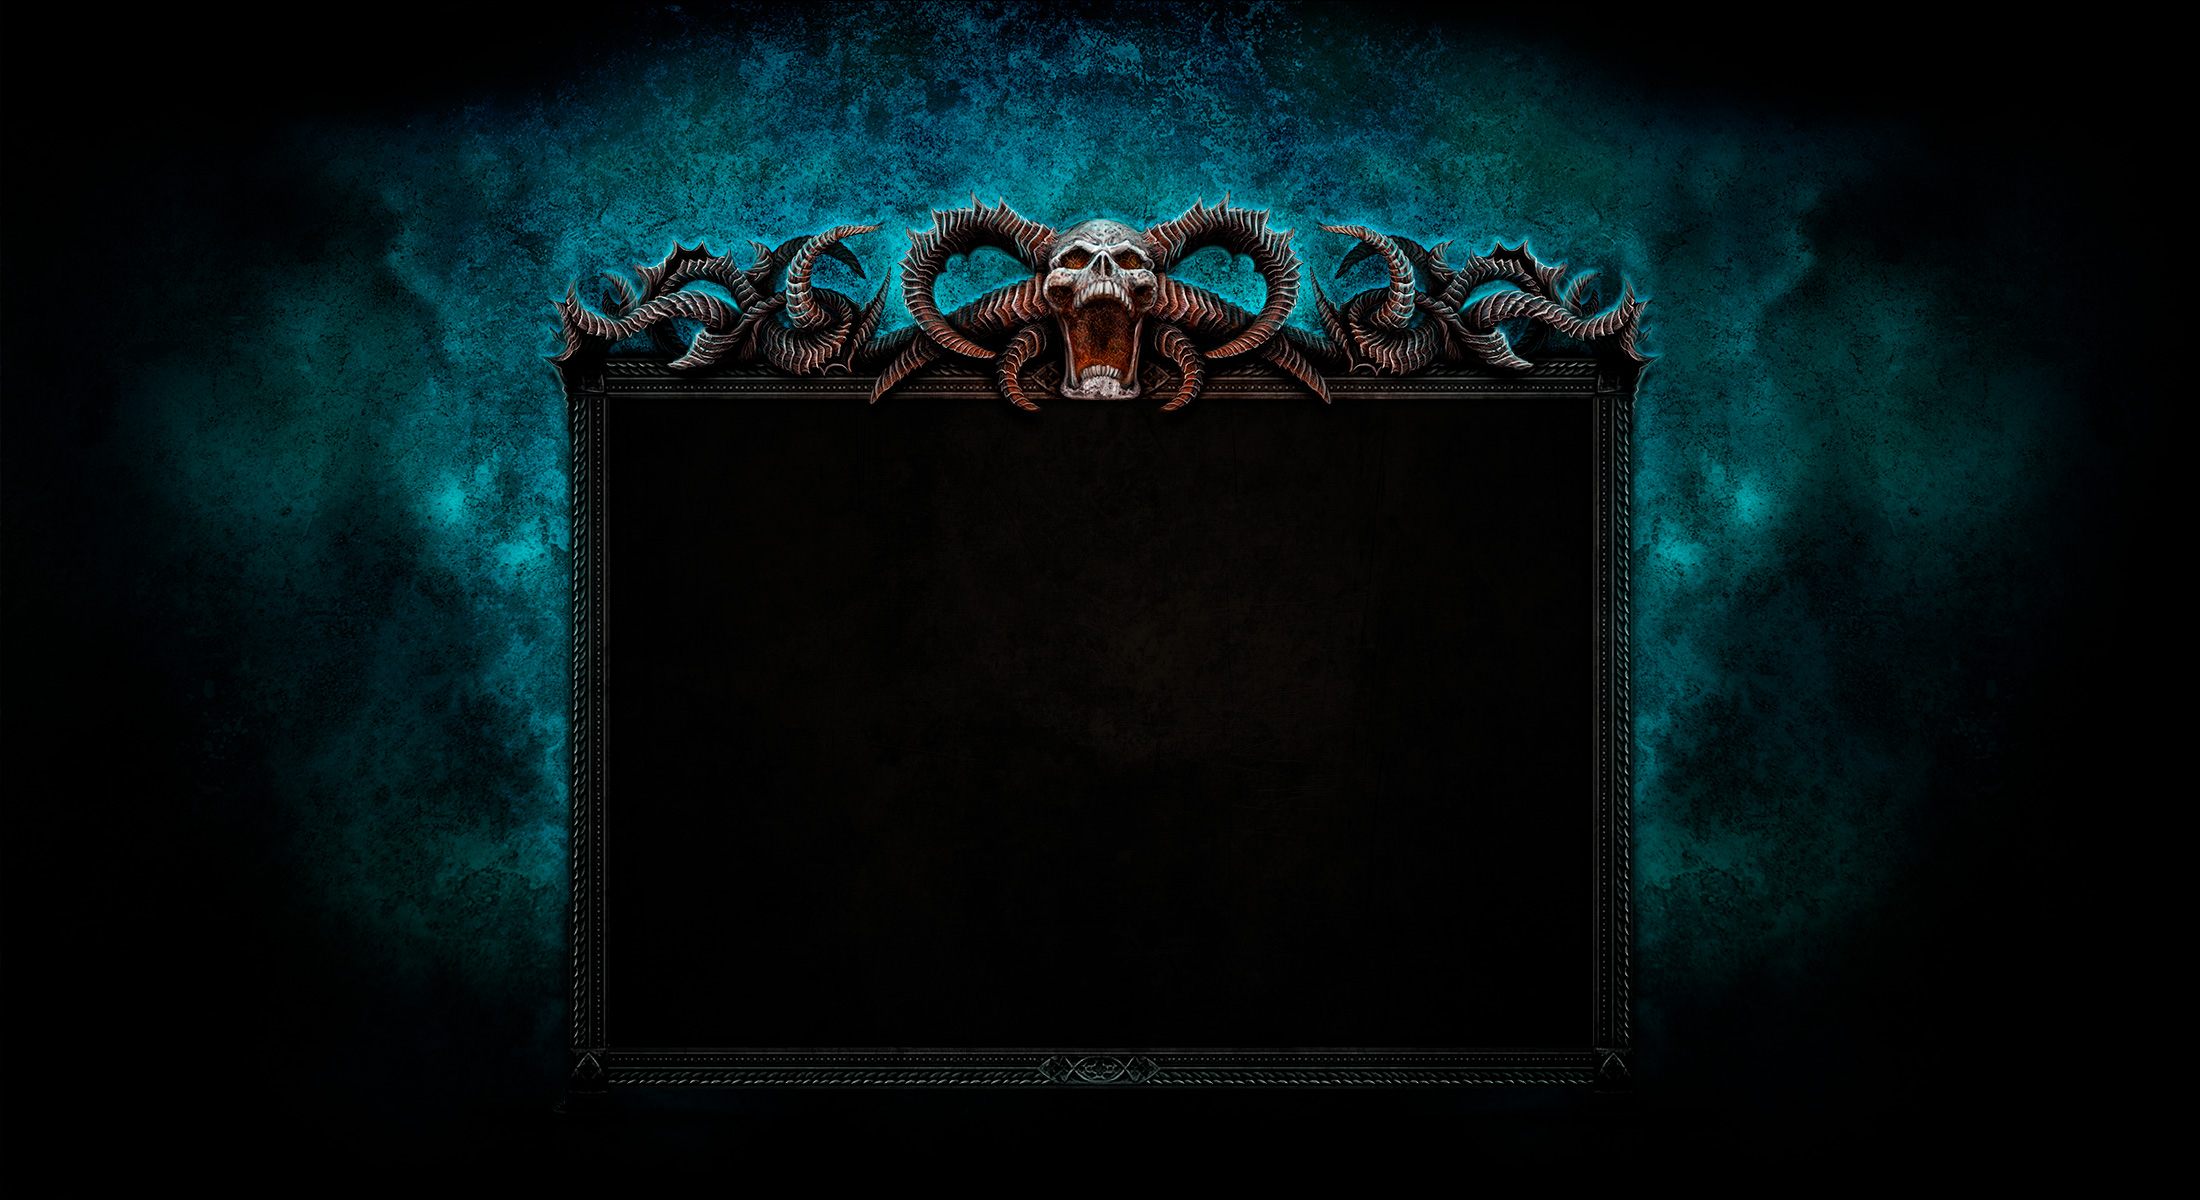
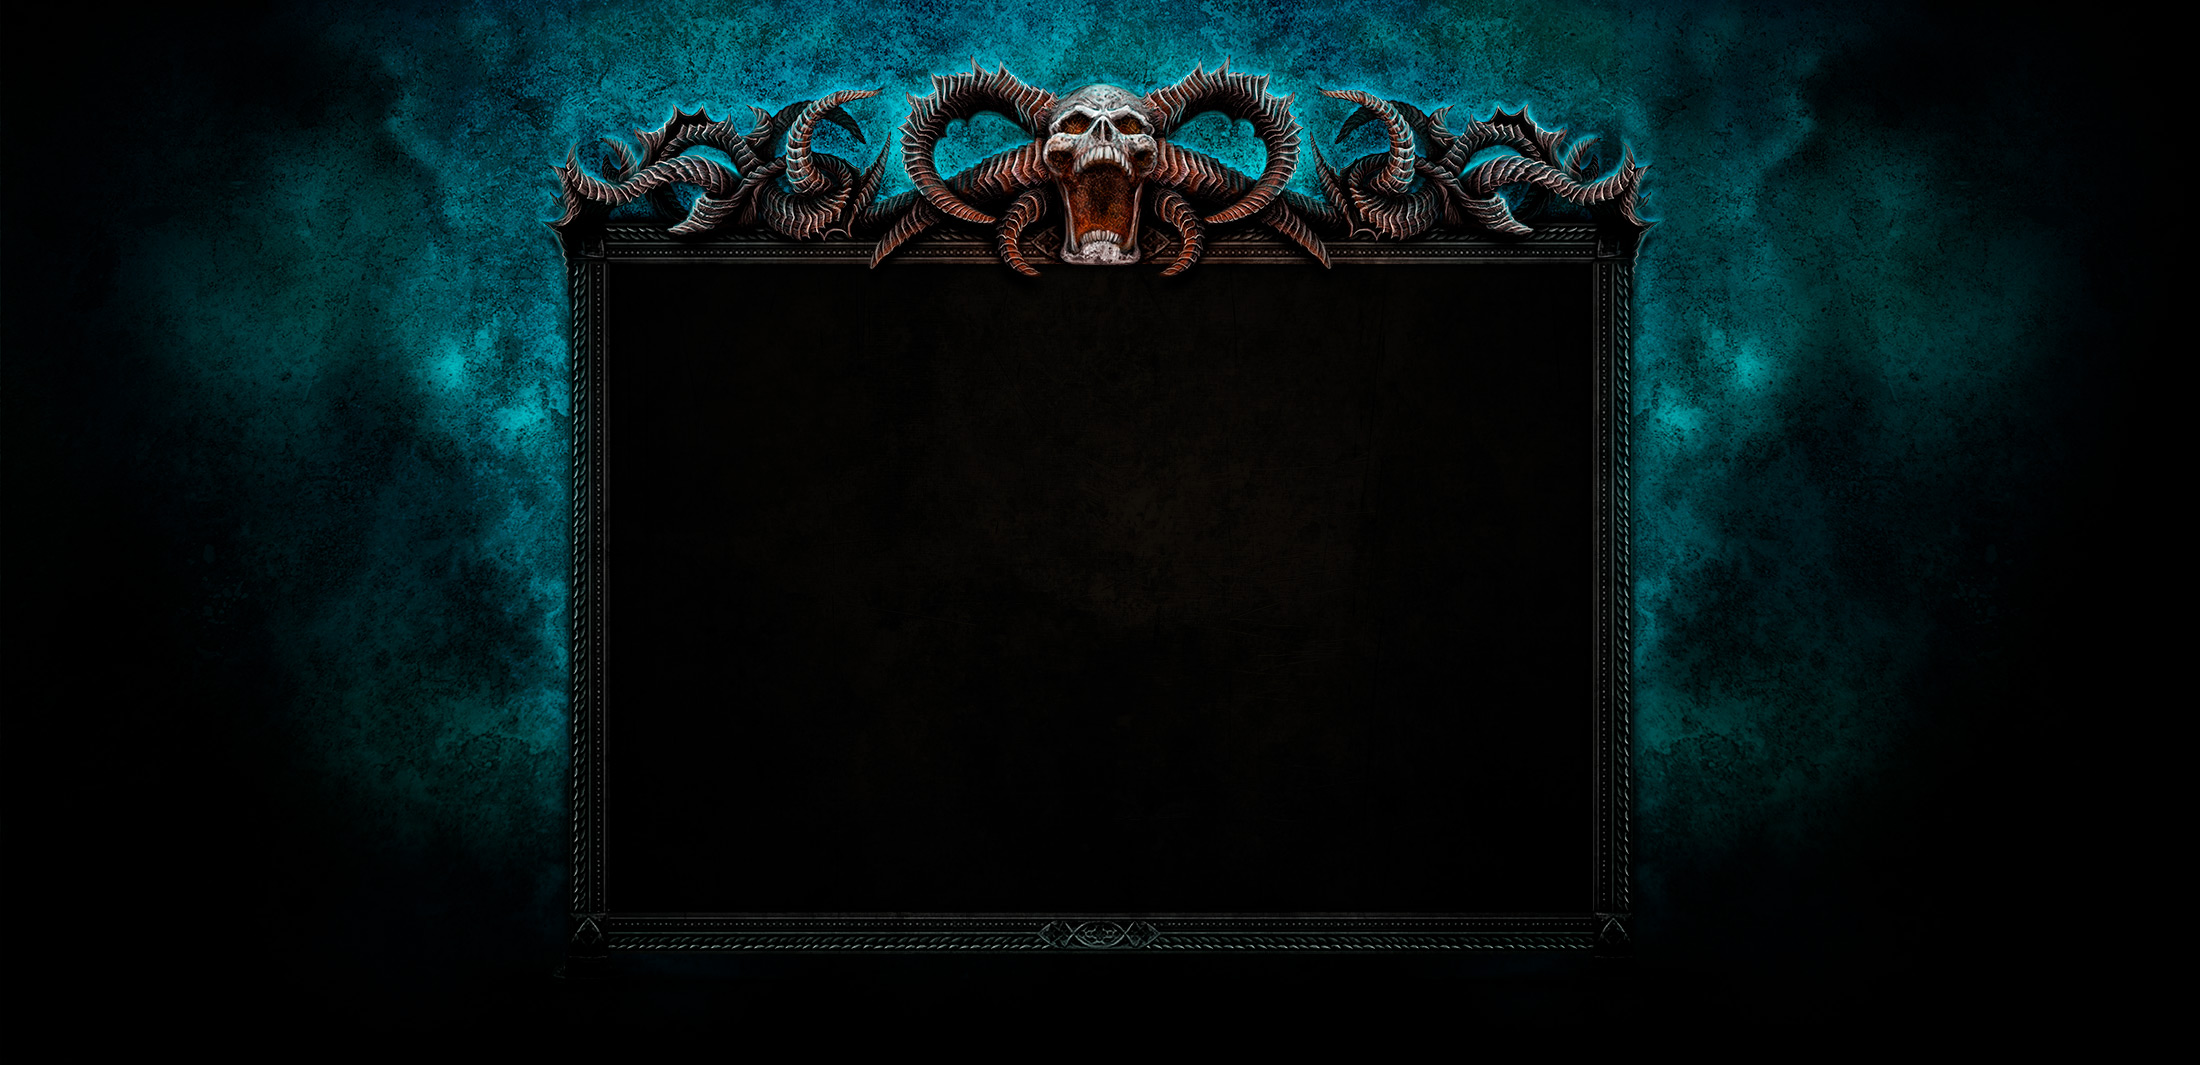
terminal bg cropped

diff --git a/public/css/styles.css b/public/css/styles.css
@@ -36,8 +36,8 @@ margin-top: 0;
 font-size: 145%;
 }
 #mudwrapper {
-padding-top: 415px;
-height: 980px;
+padding-top: 280px;
+height: 850px;
 width: 980px;
 margin: 0 auto;
 }
@@ -56,8 +56,8 @@ font-style: italic;
 width: 99%;
 }
 #inputwrapper {
-padding-top: 1em;
 width: 980px;
+padding-top: 5px;
 }
 #cmd {
 border: none;
